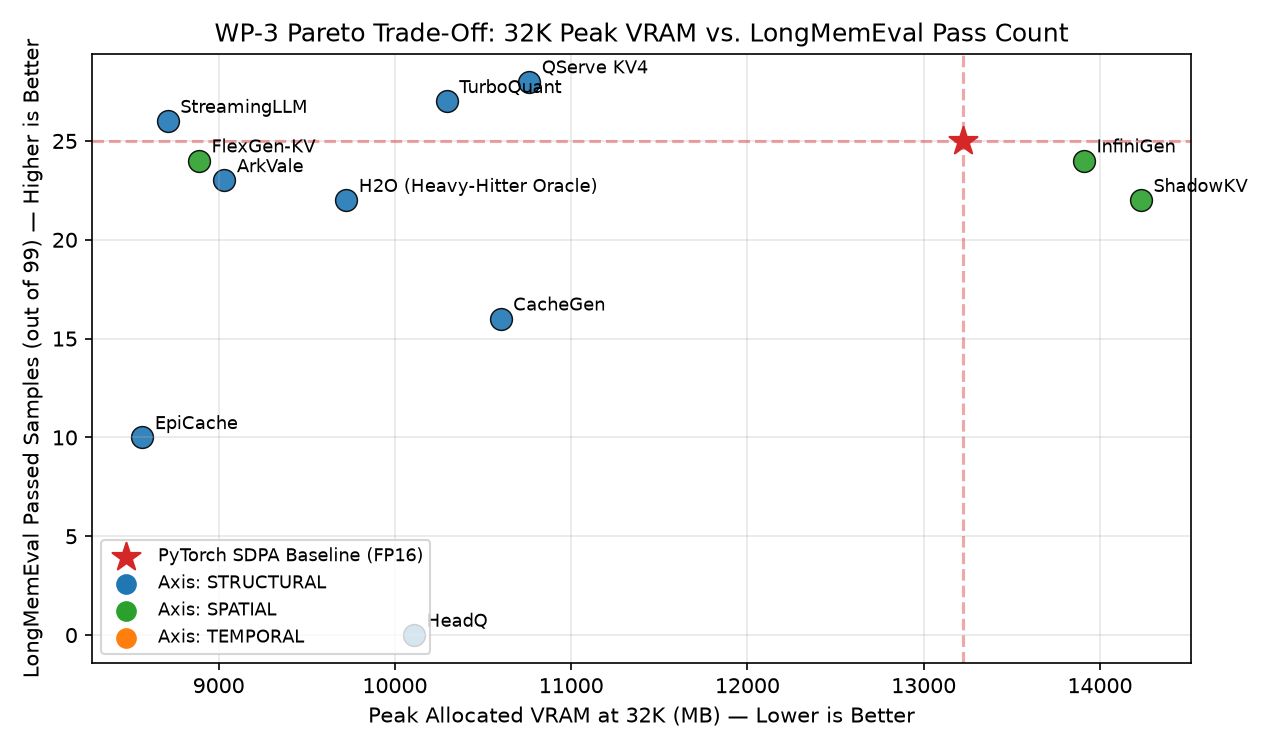
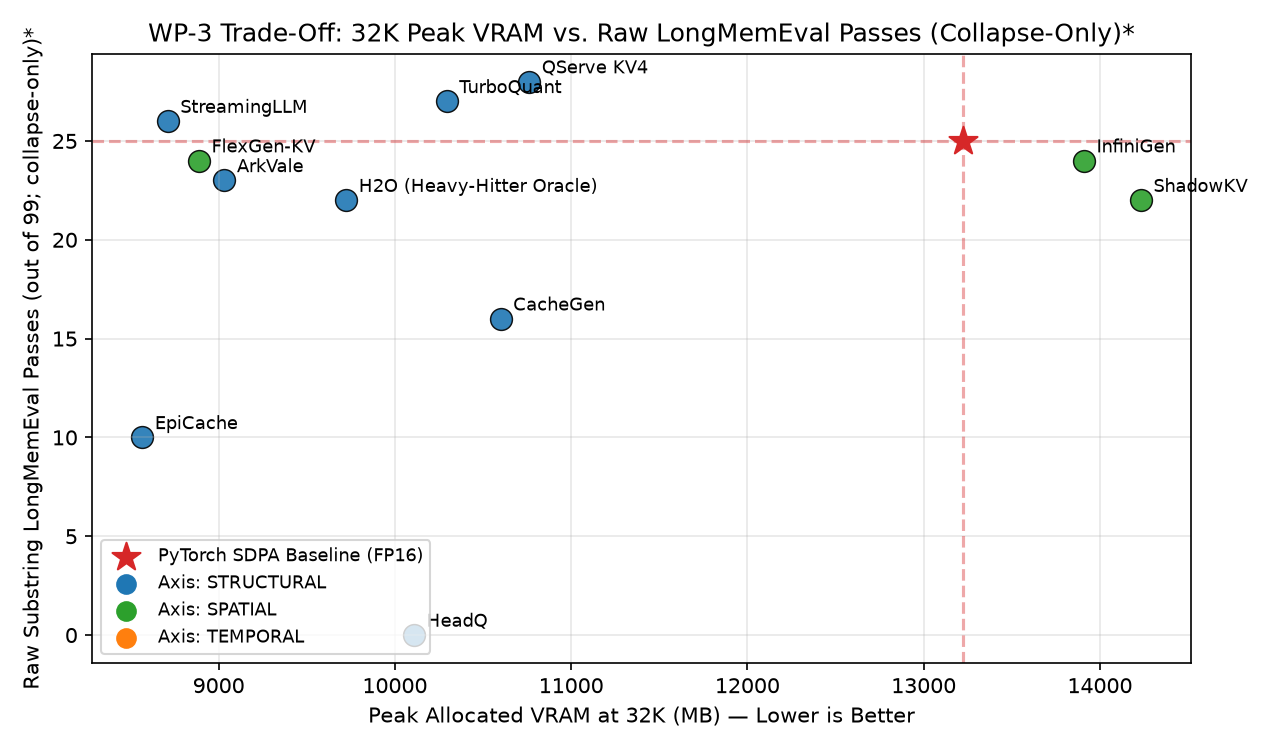
docs(wp3): add LongMemEval methodology caveat and anchor WP-4 takeaways on NIAH/KL [WP3-12]

Changed region(s): [[0.0, 0.0307, 0.0306, 0.92], [0.1224, 0.0307, 0.8871, 0.0613]]

diff --git a/scripts/generate_wp3_report.py b/scripts/generate_wp3_report.py
@@ -562,20 +562,16 @@ def build_diagnostic_narrative(
         tot = sum(r["extra"].get("diag_total_inspected", 0) for r in lm_res)
         regs = sum(r["extra"].get("diag_quality_regression_count", 0) for r in lm_res)
         ret = float(np.mean([r["extra"].get("diag_mean_overall_retention_ratio", 0.0) for r in lm_res]))
-        if passes >= b_lm_pass:
-            pros.append(
-                f"Matches or exceeds baseline LongMemEval pass count (**{passes}/{tot}** vs. {b_lm_pass}/{b_lm_tot} baseline) "
-                f"with **{regs}** compression-induced quality regressions."
-            )
-        else:
+        if passes < b_lm_pass * 0.7:
             cons.append(
-                f"Trails baseline LongMemEval pass count (**{passes}/{tot}** vs. {b_lm_pass}/{b_lm_tot} baseline) "
-                f"with **{regs}** quality regressions (mean KV retention ratio = **{ret:.2f}**)."
+                f"Severe LongMemEval collapse (**{passes}/{tot}** vs. {b_lm_pass}/{b_lm_tot} baseline; "
+                f"**{regs}** quality regressions, mean KV retention ratio = **{ret:.2f}**)."
             )
         reasons.append(
-            f"On LongMemEval ({tot} inspected samples across 512–16,384 tokens), {tech['name']} scores **{passes}/{tot}** "
-            f"with **{regs}** quality regressions relative to the uncompressed baseline ({b_lm_pass}/{b_lm_tot}) and "
-            f"a mean token retention ratio of **{ret:.2f}**."
+            f"On WP-3 LongMemEval ({tot} raw substring evaluations across 512–16,384 tokens), {tech['name']} records **{passes}/{tot}** "
+            f"(**{regs}** regressions vs. {b_lm_pass}/{b_lm_tot} baseline; mean retention ratio = **{ret:.2f}**). "
+            "*Note: WP-3 LongMemEval scores are retained only for catastrophic-collapse detection due to substring-grading, "
+            "32-token truncation, and raw-prompt artifacts; use 2D NIAH and KL divergence for fidelity ranking.*"
         )
 
     return "\n\n".join(reasons), pros, cons
@@ -809,9 +805,9 @@ def plot_overview_figures(summaries: list[dict[str, Any]], base_hw: list[dict], 
             color="#666666",
             bbox={"boxstyle": "round,pad=0.3", "facecolor": "#f8f9fa", "edgecolor": "#cccccc"},
         )
-    ax.set_title("WP-3 Pareto Trade-Off: 32K Peak VRAM vs. LongMemEval Pass Count")
+    ax.set_title("WP-3 Trade-Off: 32K Peak VRAM vs. Raw LongMemEval Passes (Collapse-Only)*")
     ax.set_xlabel("Peak Allocated VRAM at 32K (MB) — Lower is Better")
-    ax.set_ylabel("LongMemEval Passed Samples (out of 99) — Higher is Better")
+    ax.set_ylabel("Raw Substring LongMemEval Passes (out of 99; collapse-only)*")
     ax.grid(True, alpha=0.3)
     ax.legend(fontsize=8.5, loc="lower left")
     fig.tight_layout()
@@ -867,10 +863,10 @@ def format_dynamic_spotlight(s: dict[str, Any], tech: dict[str, Any], b32: dict[
             caveat_parts.append(f"NIAH drops to **{s['niah_2k']:.0f}% @2K / {s['niah_4k']:.0f}% @4K**")
 
     if s["lm_pass"] is not None and s["lm_tot"] is not None:
-        if s["lm_pass"] >= b_pass:
-            upside_parts.append(f"**{s['lm_pass']}/{s['lm_tot']} LongMemEval passes** ({s['lm_reg']} regressions)")
-        else:
-            caveat_parts.append(f"LongMemEval **{s['lm_pass']}/{s['lm_tot']}** ({s['lm_reg']} regressions vs. {b_pass} baseline)")
+        if s["lm_pass"] < b_pass * 0.7:
+            caveat_parts.append(
+                f"LongMemEval collapse (**{s['lm_pass']}/{s['lm_tot']}** vs. {b_pass} baseline; {s['lm_reg']} regressions)"
+            )
 
     if s["lm_kl"] is not None and s["lm_kl"] < 6.0:
         upside_parts.append(f"low LongMemEval KL (**{s['lm_kl']:.2f}**)")
@@ -896,6 +892,15 @@ def write_executive_report(summaries: list[dict[str, Any]], base_hw: list[dict],
         "Note on theoretical vs. empirical VRAM: because unmodified FP16 model weights and runtime buffers occupy ~7.5 GiB fixed VRAM, "
         "a 4× KV-cache reduction translates to ~18–35% total process VRAM savings at 32K context. "
         "Fine-grained tables, per-capability breakdowns, and `matplotlib` figures live in [`docs/wp3_profiles/`](wp3_profiles/).",
+        "",
+        "> [!NOTE]",
+        "> **LongMemEval Methodology Caveat (WP-3):** Raw `LongMem Pass` counts below (`X/99`) reflect the WP-3 substring-graded, "
+        "raw-prompt (non-chat-templated), `max_tokens=32`, 6-tier overlapping harness. Post-hoc audit confirmed that small apparent leads "
+        "over Baseline (`25/99`) at 8K (`QServe KV4 28/99`, `TurboQuant 27/99`, `StreamingLLM 26/99`) stem from substring false positives/negatives, "
+        "refusal-boundary flips on 7 deciding questions, and front-truncation of long contexts. Accordingly, WP-3 LongMemEval counts are "
+        "interpreted **strictly for catastrophic-collapse detection** (`HeadQ 0/99`, `EpiCache 10/99`, `CacheGen 16/99`), while structural "
+        "fidelity ranking for WP-4 is anchored on **2D NIAH exact-match retrieval** and **PG-19 / LongMem KL divergence**. "
+        "A dedicated harness overhaul (single-pass native length at 32K, chat template, `max_tokens=128`, decoupled offline grading) is tracked as a follow-up.",
         "",
         "---",
         "",
@@ -942,7 +947,11 @@ def write_executive_report(summaries: list[dict[str, Any]], base_hw: list[dict],
     completed_hw = [s for s in summaries if s["vram_32k"] is not None]
     min_vram = min(completed_hw, key=lambda x: x["vram_32k"])
     fastest_tpot = min(completed_hw, key=lambda x: x["tpot_32k"])
-    best_lm = max([s for s in summaries if s["lm_pass"] is not None], key=lambda x: x["lm_pass"])
+    niah_perfect_struct = [
+        s for s in completed_hw
+        if s["primary_axis"] == "STRUCTURAL" and s["niah_2k"] == 100.0 and s["niah_4k"] == 100.0
+    ]
+    best_struct = min(niah_perfect_struct, key=lambda x: x["tpot_32k"]) if niah_perfect_struct else completed_hw[0]
 
     lines.extend([
         "---",
@@ -960,9 +969,10 @@ def write_executive_report(summaries: list[dict[str, Any]], base_hw: list[dict],
         f"1. **Lowest Memory & Fastest Decode Come from Structural Eviction, at the Cost of NIAH Recall:** "
         f"`{min_vram['name']}` achieves the lowest 32K VRAM (**{min_vram['vram_32k']:.0f} MB**) and `{fastest_tpot['name']}` "
         f"achieves the fastest 32K decode (**{fastest_tpot['tpot_32k']:.1f} ms/tok**), but both lose non-local needles at 4K.",
-        f"2. **4-Bit KV Quantization Preserves Full-Context Accuracy:** "
-        f"`{best_lm['name']}` leads LongMemEval (**{best_lm['lm_pass']}/{best_lm['lm_tot']}**, {best_lm['lm_reg']} regressions) "
-        f"with **100% NIAH**, establishing 4-bit group quantization as the safest *Structural* baseline for WP-4.",
+        f"2. **4-Bit KV Quantization Preserves Full-Context Recall Without Catastrophic Overhead:** "
+        f"`{best_struct['name']}` preserves **100% NIAH** exact-match retrieval (2K & 4K) with **{best_struct['vram_32k']:.0f} MB** 32K VRAM "
+        f"and **{best_struct['tpot_32k']:.1f} ms/tok** TPOT (fastest among 100%-NIAH structural methods), establishing 4-bit group quantization "
+        f"as the safest *Structural* baseline for WP-4.",
         "3. **Spatial Offloading Must Control PCIe & Auxiliary Buffer Overhead:** "
         "Offloading techniques (`FlexGen-KV`, `ArkVale`, `ShadowKV`, `InfiniGen`) preserve 100% NIAH at 2K/4K, "
         "but high PCIe transfer volume or auxiliary prefetch buffers can erode VRAM or TPOT gains if left uncoordinated.",

diff --git a/docs/WP3_CANDIDATE_EXPLORATION_REPORT.md b/docs/WP3_CANDIDATE_EXPLORATION_REPORT.md
@@ -4,6 +4,9 @@
 
 This executive report synthesizes empirical results across all 11 reproduced KV-cache optimization candidates. Note on theoretical vs. empirical VRAM: because unmodified FP16 model weights and runtime buffers occupy ~7.5 GiB fixed VRAM, a 4× KV-cache reduction translates to ~18–35% total process VRAM savings at 32K context. Fine-grained tables, per-capability breakdowns, and `matplotlib` figures live in [`docs/wp3_profiles/`](wp3_profiles/).
 
+> [!NOTE]
+> **LongMemEval Methodology Caveat (WP-3):** Raw `LongMem Pass` counts below (`X/99`) reflect the WP-3 substring-graded, raw-prompt (non-chat-templated), `max_tokens=32`, 6-tier overlapping harness. Post-hoc audit confirmed that small apparent leads over Baseline (`25/99`) at 8K (`QServe KV4 28/99`, `TurboQuant 27/99`, `StreamingLLM 26/99`) stem from substring false positives/negatives, refusal-boundary flips on 7 deciding questions, and front-truncation of long contexts. Accordingly, WP-3 LongMemEval counts are interpreted **strictly for catastrophic-collapse detection** (`HeadQ 0/99`, `EpiCache 10/99`, `CacheGen 16/99`), while structural fidelity ranking for WP-4 is anchored on **2D NIAH exact-match retrieval** and **PG-19 / LongMem KL divergence**. A dedicated harness overhaul (single-pass native length at 32K, chat template, `max_tokens=128`, decoupled offline grading) is tracked as a follow-up.
+
 ---
 
 ## 1. Cross-Technique Summary Matrix
@@ -29,58 +32,58 @@ This executive report synthesizes empirical results across all 11 reproduced KV-
 
 ### WP3-1: StreamingLLM (`STRUCTURAL`) — [Full Profile](wp3_profiles/streamingllm.md)
 - **Mechanism:** StreamingLLM retains a small set of initial 'attention sink' tokens alongside a fixed-size rolling sliding window of the most recent tokens. When the sequence exceeds the combined budget, intermediate tokens between the sinks and the local window are evicted in FIFO order, bounding KV-cache memory to O(1) regardless of prompt length.
-- **Prominent Upside:** **34.1% lower 32K VRAM** (8712 MB); **20.9 ms/tok** decode TPOT (1.39× baseline speed); **26/99 LongMemEval passes** (3 regressions); low LongMemEval KL (**5.62**)
+- **Prominent Upside:** **34.1% lower 32K VRAM** (8712 MB); **20.9 ms/tok** decode TPOT (1.39× baseline speed); low LongMemEval KL (**5.62**)
 - **Primary Trade-Off:** NIAH drops to **100% @2K / 40% @4K**
 
 ### WP3-2: H2O (Heavy-Hitter Oracle) (`STRUCTURAL`) — [Full Profile](wp3_profiles/h2o.md)
 - **Mechanism:** H2O partitions the fixed KV budget between a recent local window and a 'heavy-hitter' pool selected by cumulative attention scores. At each step, tokens with the lowest accumulated attention (pooled across GQA heads) are evicted to keep high-impact context tokens in GPU memory.
 - **Prominent Upside:** **26.5% lower 32K VRAM** (9725 MB); low LongMemEval KL (**4.01**)
-- **Primary Trade-Off:** 32K decode TPOT is **1.57× slower** (45.9 ms/tok); NIAH drops to **100% @2K / 20% @4K**; LongMemEval **22/99** (4 regressions vs. 25 baseline)
+- **Primary Trade-Off:** 32K decode TPOT is **1.57× slower** (45.9 ms/tok); NIAH drops to **100% @2K / 20% @4K**
 
 ### WP3-3: TurboQuant (`STRUCTURAL`) — [Full Profile](wp3_profiles/turboquant.md)
 - **Mechanism:** TurboQuant applies asymmetric low-bit quantization to Keys and Values, using a Walsh-Hadamard rotation to smooth outlier channels before quantization and a Quantized Johnson-Lindenstrauss (QJL) sketch on Values to preserve inner-product fidelity.
-- **Prominent Upside:** **22.2% lower 32K VRAM** (10294 MB); **100% NIAH** exact-match retrieval (2K & 4K); **27/99 LongMemEval passes** (5 regressions)
+- **Prominent Upside:** **22.2% lower 32K VRAM** (10294 MB); **100% NIAH** exact-match retrieval (2K & 4K)
 - **Primary Trade-Off:** 32K decode TPOT is **29.62× slower** (864.1 ms/tok)
 
 ### WP3-4: HeadQ (`STRUCTURAL`) — [Full Profile](wp3_profiles/headq.md)
 - **Mechanism:** HeadQ compresses Keys aggressively down to 2 bits while storing Values at 4 bits, augmenting the quantized Keys with a low-rank PCA residual side-code to recover high-variance attention directions.
 - **Prominent Upside:** **23.6% lower 32K VRAM** (10109 MB)
-- **Primary Trade-Off:** 32K decode TPOT is **2.77× slower** (80.9 ms/tok); NIAH drops to **0% @2K / 0% @4K**; LongMemEval **0/99** (25 regressions vs. 25 baseline); high PG-19 KL (**13.52**)
+- **Primary Trade-Off:** 32K decode TPOT is **2.77× slower** (80.9 ms/tok); NIAH drops to **0% @2K / 0% @4K**; LongMemEval collapse (**0/99** vs. 25 baseline; 25 regressions); high PG-19 KL (**13.52**)
 
 ### WP3-5: QServe KV4 (`STRUCTURAL`) — [Full Profile](wp3_profiles/qserve_kv4.md)
 - **Mechanism:** QServe KV4 performs group-wise 4-bit symmetric/asymmetric KV-cache quantization paired with SmoothAttention, which migrates channel-wise outlier magnitudes from Keys into the Query projection scaling before quantizing.
-- **Prominent Upside:** **18.6% lower 32K VRAM** (10763 MB); **100% NIAH** exact-match retrieval (2K & 4K); **28/99 LongMemEval passes** (2 regressions)
+- **Prominent Upside:** **18.6% lower 32K VRAM** (10763 MB); **100% NIAH** exact-match retrieval (2K & 4K)
 - **Primary Trade-Off:** 32K decode TPOT is **2.05× slower** (59.9 ms/tok)
 
 ### WP3-6: FlexGen-KV (`SPATIAL`) — [Full Profile](wp3_profiles/flexgen_kv.md)
 - **Mechanism:** FlexGen-KV tiers the KV cache across GPU VRAM and host CPU RAM, keeping a bounded active budget on the GPU while offloading older KV blocks to CPU memory with group-wise quantization to reduce host-device PCIe transfer volume.
 - **Prominent Upside:** **32.8% lower 32K VRAM** (8889 MB); **100% NIAH** exact-match retrieval (2K & 4K)
-- **Primary Trade-Off:** 32K decode TPOT is **7.87× slower** (229.6 ms/tok); LongMemEval **24/99** (6 regressions vs. 25 baseline)
+- **Primary Trade-Off:** 32K decode TPOT is **7.87× slower** (229.6 ms/tok)
 
 ### WP3-7: ShadowKV (`SPATIAL`) — [Full Profile](wp3_profiles/shadowkv.md)
 - **Mechanism:** ShadowKV keeps low-rank SVD-compressed Key representations and sparse outlier channels on the GPU for fast chunk-level relevance scoring, while offloading full-precision Values to CPU RAM and fetching only the top-k relevant chunks on demand during decode.
 - **Prominent Upside:** **100% NIAH** exact-match retrieval (2K & 4K); low LongMemEval KL (**3.85**)
-- **Primary Trade-Off:** **+7.6% higher 32K VRAM** (14233 MB vs. 13225 MB baseline); 32K decode TPOT is **2.92× slower** (85.3 ms/tok); LongMemEval **22/99** (3 regressions vs. 25 baseline)
+- **Primary Trade-Off:** **+7.6% higher 32K VRAM** (14233 MB vs. 13225 MB baseline); 32K decode TPOT is **2.92× slower** (85.3 ms/tok)
 
 ### WP3-8: CacheGen (`STRUCTURAL`) — [Full Profile](wp3_profiles/cachegen.md)
 - **Mechanism:** CacheGen encodes KV tensors using anchor-delta compression (storing periodic anchor tokens at higher precision and encoding intermediate tokens as deltas) combined with layer-tiered bit allocation across shallow, middle, and deep transformer layers.
 - **Prominent Upside:** **19.8% lower 32K VRAM** (10600 MB)
-- **Primary Trade-Off:** 32K decode TPOT is **2.84× slower** (82.9 ms/tok); NIAH drops to **40% @2K / 80% @4K**; LongMemEval **16/99** (11 regressions vs. 25 baseline); high PG-19 KL (**12.87**)
+- **Primary Trade-Off:** 32K decode TPOT is **2.84× slower** (82.9 ms/tok); NIAH drops to **40% @2K / 80% @4K**; LongMemEval collapse (**16/99** vs. 25 baseline; 11 regressions); high PG-19 KL (**12.87**)
 
 ### WP3-9: InfiniGen (`SPATIAL`) — [Full Profile](wp3_profiles/infinigen.md)
 - **Mechanism:** InfiniGen speculatively prefetches important KV blocks from CPU memory one layer ahead by using low-rank key proxies and threshold-based importance prediction to overlap host-to-device transfers with layer computation.
 - **Prominent Upside:** **100% NIAH** exact-match retrieval (2K & 4K)
-- **Primary Trade-Off:** **+5.2% higher 32K VRAM** (13910 MB vs. 13225 MB baseline); 32K decode TPOT is **7.53× slower** (219.7 ms/tok); LongMemEval **24/99** (4 regressions vs. 25 baseline)
+- **Primary Trade-Off:** **+5.2% higher 32K VRAM** (13910 MB vs. 13225 MB baseline); 32K decode TPOT is **7.53× slower** (219.7 ms/tok)
 
 ### WP3-10: ArkVale (`STRUCTURAL`) — [Full Profile](wp3_profiles/arkvale.md)
 - **Mechanism:** ArkVale organizes the KV cache into fixed-size pages offloaded to CPU RAM and maintains Axis-Aligned Bounding Box (AABB) geometric digests on the GPU to recall and page-in only the relevant KV pages per query.
 - **Prominent Upside:** **31.7% lower 32K VRAM** (9033 MB); **100% NIAH** exact-match retrieval (2K & 4K)
-- **Primary Trade-Off:** 32K decode TPOT is **3.53× slower** (102.9 ms/tok); LongMemEval **23/99** (4 regressions vs. 25 baseline)
+- **Primary Trade-Off:** 32K decode TPOT is **3.53× slower** (102.9 ms/tok)
 
 ### WP3-11: EpiCache (`STRUCTURAL`) — [Full Profile](wp3_profiles/epicache.md)
 - **Mechanism:** EpiCache clusters conversational/context history into episodic segments and allocates per-layer KV budgets according to layer sensitivity, pruning low-sensitivity tokens within each episode to fit a compact GPU budget.
 - **Prominent Upside:** **35.2% lower 32K VRAM** (8567 MB); **30.6 ms/tok** decode TPOT (0.95× baseline speed)
-- **Primary Trade-Off:** NIAH drops to **0% @2K / 0% @4K**; LongMemEval **10/99** (17 regressions vs. 25 baseline)
+- **Primary Trade-Off:** NIAH drops to **0% @2K / 0% @4K**; LongMemEval collapse (**10/99** vs. 25 baseline; 17 regressions)
 
 ---
 
@@ -95,5 +98,5 @@ This executive report synthesizes empirical results across all 11 reproduced KV-
 ## 4. Key Takeaways for WP-4 (3-Axis Co-Optimization)
 
 1. **Lowest Memory & Fastest Decode Come from Structural Eviction, at the Cost of NIAH Recall:** `EpiCache` achieves the lowest 32K VRAM (**8567 MB**) and `StreamingLLM` achieves the fastest 32K decode (**20.9 ms/tok**), but both lose non-local needles at 4K.
-2. **4-Bit KV Quantization Preserves Full-Context Accuracy:** `QServe KV4` leads LongMemEval (**28/99**, 2 regressions) with **100% NIAH**, establishing 4-bit group quantization as the safest *Structural* baseline for WP-4.
+2. **4-Bit KV Quantization Preserves Full-Context Recall Without Catastrophic Overhead:** `QServe KV4` preserves **100% NIAH** exact-match retrieval (2K & 4K) with **10763 MB** 32K VRAM and **59.9 ms/tok** TPOT (fastest among 100%-NIAH structural methods), establishing 4-bit group quantization as the safest *Structural* baseline for WP-4.
 3. **Spatial Offloading Must Control PCIe & Auxiliary Buffer Overhead:** Offloading techniques (`FlexGen-KV`, `ArkVale`, `ShadowKV`, `InfiniGen`) preserve 100% NIAH at 2K/4K, but high PCIe transfer volume or auxiliary prefetch buffers can erode VRAM or TPOT gains if left uncoordinated.

diff --git a/docs/wp3_profiles/epicache.md b/docs/wp3_profiles/epicache.md
@@ -108,7 +108,7 @@ Tested with num_episodes=4, episode_budget_tokens=1,024, and layer_sensitivity_a
 
 On the 2D NIAH diagnostic sweep, exact-match retrieval across depths 0.0–0.9 is **2048: 0%, 4096: 0%**.
 
-On LongMemEval (99 inspected samples across 512–16,384 tokens), EpiCache scores **10/99** with **17** quality regressions relative to the uncompressed baseline (25/99) and a mean token retention ratio of **0.52**.
+On WP-3 LongMemEval (99 raw substring evaluations across 512–16,384 tokens), EpiCache records **10/99** (**17** regressions vs. 25/99 baseline; mean retention ratio = **0.52**). *Note: WP-3 LongMemEval scores are retained only for catastrophic-collapse detection due to substring-grading, 32-token truncation, and raw-prompt artifacts; use 2D NIAH and KL divergence for fidelity ranking.*
 
 ### Pros
 
@@ -120,4 +120,4 @@ On LongMemEval (99 inspected samples across 512–16,384 tokens), EpiCache score
 - High host-device transfer volume at 32K (**442264 B/tok**, Host RSS Δ = **2846 MB**).
 - Elevated PG-19 logit divergence (mean KL = **9.86**, Top-1 = **22.5%**).
 - NIAH retrieval drops to **0%** at 4,096 tokens (failing at depths `[0.0, 0.1, 0.2, 0.3, 0.4, 0.5, 0.6, 0.7, 0.8, 0.9]`), confirming loss of early/non-local needle tokens.
-- Trails baseline LongMemEval pass count (**10/99** vs. 25/99 baseline) with **17** quality regressions (mean KV retention ratio = **0.52**).
+- Severe LongMemEval collapse (**10/99** vs. 25/99 baseline; **17** quality regressions, mean KV retention ratio = **0.52**).

diff --git a/docs/wp3_profiles/headq.md b/docs/wp3_profiles/headq.md
@@ -108,7 +108,7 @@ Tested with key_bits=2, val_bits=4, pca_rank=4, and sidecode_bits=4. At 2-bit ke
 
 On the 2D NIAH diagnostic sweep, exact-match retrieval across depths 0.0–0.9 is **2048: 0%, 4096: 0%**.
 
-On LongMemEval (99 inspected samples across 512–16,384 tokens), HeadQ scores **0/99** with **25** quality regressions relative to the uncompressed baseline (25/99) and a mean token retention ratio of **1.00**.
+On WP-3 LongMemEval (99 raw substring evaluations across 512–16,384 tokens), HeadQ records **0/99** (**25** regressions vs. 25/99 baseline; mean retention ratio = **1.00**). *Note: WP-3 LongMemEval scores are retained only for catastrophic-collapse detection due to substring-grading, 32-token truncation, and raw-prompt artifacts; use 2D NIAH and KL divergence for fidelity ranking.*
 
 ### Pros
 
@@ -119,4 +119,4 @@ On LongMemEval (99 inspected samples across 512–16,384 tokens), HeadQ scores *
 - Decode latency at 32K is **2.77x slower** than baseline (**80.9 ms/tok** vs. 29.2 ms/tok).
 - Elevated PG-19 logit divergence (mean KL = **13.52**, Top-1 = **2.0%**).
 - NIAH retrieval drops to **0%** at 4,096 tokens (failing at depths `[0.0, 0.1, 0.2, 0.3, 0.4, 0.5, 0.6, 0.7, 0.8, 0.9]`), confirming loss of early/non-local needle tokens.
-- Trails baseline LongMemEval pass count (**0/99** vs. 25/99 baseline) with **25** quality regressions (mean KV retention ratio = **1.00**).
+- Severe LongMemEval collapse (**0/99** vs. 25/99 baseline; **25** quality regressions, mean KV retention ratio = **1.00**).

diff --git a/docs/wp3_profiles/cachegen.md b/docs/wp3_profiles/cachegen.md
@@ -108,7 +108,7 @@ Tested with anchor_group_size=10, shallow_bits=8, mid_bits=4, and deep_bits=2. A
 
 On the 2D NIAH diagnostic sweep, exact-match retrieval across depths 0.0–0.9 is **2048: 40%, 4096: 80%**.
 
-On LongMemEval (99 inspected samples across 512–16,384 tokens), CacheGen scores **16/99** with **11** quality regressions relative to the uncompressed baseline (25/99) and a mean token retention ratio of **1.00**.
+On WP-3 LongMemEval (99 raw substring evaluations across 512–16,384 tokens), CacheGen records **16/99** (**11** regressions vs. 25/99 baseline; mean retention ratio = **1.00**). *Note: WP-3 LongMemEval scores are retained only for catastrophic-collapse detection due to substring-grading, 32-token truncation, and raw-prompt artifacts; use 2D NIAH and KL divergence for fidelity ranking.*
 
 ### Pros
 
@@ -120,4 +120,4 @@ On LongMemEval (99 inspected samples across 512–16,384 tokens), CacheGen score
 - High host-device transfer volume at 32K (**935016151 B/tok**, Host RSS Δ = **4536 MB**).
 - Elevated PG-19 logit divergence (mean KL = **12.87**, Top-1 = **6.2%**).
 - NIAH retrieval drops to **80%** at 4,096 tokens (failing at depths `[0.2, 0.9]`), confirming loss of early/non-local needle tokens.
-- Trails baseline LongMemEval pass count (**16/99** vs. 25/99 baseline) with **11** quality regressions (mean KV retention ratio = **1.00**).
+- Severe LongMemEval collapse (**16/99** vs. 25/99 baseline; **11** quality regressions, mean KV retention ratio = **1.00**).

diff --git a/docs/wp3_profiles/h2o.md b/docs/wp3_profiles/h2o.md
@@ -108,7 +108,7 @@ Tested with 1,024 heavy-hitter tokens + 1,024 recent window tokens (2,048 total 
 
 On the 2D NIAH diagnostic sweep, exact-match retrieval across depths 0.0–0.9 is **2048: 100%, 4096: 20%**.
 
-On LongMemEval (99 inspected samples across 512–16,384 tokens), H2O (Heavy-Hitter Oracle) scores **22/99** with **4** quality regressions relative to the uncompressed baseline (25/99) and a mean token retention ratio of **0.67**.
+On WP-3 LongMemEval (99 raw substring evaluations across 512–16,384 tokens), H2O (Heavy-Hitter Oracle) records **22/99** (**4** regressions vs. 25/99 baseline; mean retention ratio = **0.67**). *Note: WP-3 LongMemEval scores are retained only for catastrophic-collapse detection due to substring-grading, 32-token truncation, and raw-prompt artifacts; use 2D NIAH and KL divergence for fidelity ranking.*
 
 ### Pros
 
@@ -120,4 +120,3 @@ On LongMemEval (99 inspected samples across 512–16,384 tokens), H2O (Heavy-Hit
 - High host-device transfer volume at 32K (**2005976 B/tok**, Host RSS Δ = **6874 MB**).
 - Elevated PG-19 logit divergence (mean KL = **6.55**, Top-1 = **52.5%**).
 - NIAH retrieval drops to **20%** at 4,096 tokens (failing at depths `[0.0, 0.1, 0.2, 0.3, 0.4, 0.5, 0.6, 0.7]`), confirming loss of early/non-local needle tokens.
-- Trails baseline LongMemEval pass count (**22/99** vs. 25/99 baseline) with **4** quality regressions (mean KV retention ratio = **0.67**).

diff --git a/docs/wp3_profiles/shadowkv.md b/docs/wp3_profiles/shadowkv.md
@@ -108,7 +108,7 @@ Tested with svd_rank=160, chunk_size=8, topk_chunks=256, and outlier_ratio=0.003
 
 On the 2D NIAH diagnostic sweep, exact-match retrieval across depths 0.0–0.9 is **2048: 100%, 4096: 100%**.
 
-On LongMemEval (99 inspected samples across 512–16,384 tokens), ShadowKV scores **22/99** with **3** quality regressions relative to the uncompressed baseline (25/99) and a mean token retention ratio of **1.00**.
+On WP-3 LongMemEval (99 raw substring evaluations across 512–16,384 tokens), ShadowKV records **22/99** (**3** regressions vs. 25/99 baseline; mean retention ratio = **1.00**). *Note: WP-3 LongMemEval scores are retained only for catastrophic-collapse detection due to substring-grading, 32-token truncation, and raw-prompt artifacts; use 2D NIAH and KL divergence for fidelity ranking.*
 
 ### Pros
 
@@ -120,4 +120,3 @@ On LongMemEval (99 inspected samples across 512–16,384 tokens), ShadowKV score
 - Increases peak allocated VRAM at 32K by **+7.6%** (14233 MB vs. 13225 MB baseline) due to auxiliary metadata/prefetch buffers.
 - Decode latency at 32K is **2.92x slower** than baseline (**85.3 ms/tok** vs. 29.2 ms/tok).
 - High host-device transfer volume at 32K (**67241955 B/tok**, Host RSS Δ = **5325 MB**).
-- Trails baseline LongMemEval pass count (**22/99** vs. 25/99 baseline) with **3** quality regressions (mean KV retention ratio = **1.00**).

diff --git a/docs/wp3_profiles/flexgen_kv.md b/docs/wp3_profiles/flexgen_kv.md
@@ -108,7 +108,7 @@ Tested with gpu_cache_tokens=1,024, cpu_cache_tokens=32,768, group_size=64, and 
 
 On the 2D NIAH diagnostic sweep, exact-match retrieval across depths 0.0–0.9 is **2048: 100%, 4096: 100%**.
 
-On LongMemEval (99 inspected samples across 512–16,384 tokens), FlexGen-KV scores **24/99** with **6** quality regressions relative to the uncompressed baseline (25/99) and a mean token retention ratio of **1.00**.
+On WP-3 LongMemEval (99 raw substring evaluations across 512–16,384 tokens), FlexGen-KV records **24/99** (**6** regressions vs. 25/99 baseline; mean retention ratio = **1.00**). *Note: WP-3 LongMemEval scores are retained only for catastrophic-collapse detection due to substring-grading, 32-token truncation, and raw-prompt artifacts; use 2D NIAH and KL divergence for fidelity ranking.*
 
 ### Pros
 
@@ -120,4 +120,3 @@ On LongMemEval (99 inspected samples across 512–16,384 tokens), FlexGen-KV sco
 - Decode latency at 32K is **7.87x slower** than baseline (**229.6 ms/tok** vs. 29.2 ms/tok).
 - High host-device transfer volume at 32K (**1646964418 B/tok**, Host RSS Δ = **6565 MB**).
 - Elevated PG-19 logit divergence (mean KL = **10.80**, Top-1 = **21.7%**).
-- Trails baseline LongMemEval pass count (**24/99** vs. 25/99 baseline) with **6** quality regressions (mean KV retention ratio = **1.00**).

diff --git a/docs/wp3_profiles/infinigen.md b/docs/wp3_profiles/infinigen.md
@@ -108,7 +108,7 @@ Tested with k_proxy_ratio=0.3, alpha_threshold=4.0, and max_budget_ratio=0.35. M
 
 On the 2D NIAH diagnostic sweep, exact-match retrieval across depths 0.0–0.9 is **2048: 100%, 4096: 100%**.
 
-On LongMemEval (99 inspected samples across 512–16,384 tokens), InfiniGen scores **24/99** with **4** quality regressions relative to the uncompressed baseline (25/99) and a mean token retention ratio of **1.00**.
+On WP-3 LongMemEval (99 raw substring evaluations across 512–16,384 tokens), InfiniGen records **24/99** (**4** regressions vs. 25/99 baseline; mean retention ratio = **1.00**). *Note: WP-3 LongMemEval scores are retained only for catastrophic-collapse detection due to substring-grading, 32-token truncation, and raw-prompt artifacts; use 2D NIAH and KL divergence for fidelity ranking.*
 
 ### Pros
 
@@ -120,4 +120,3 @@ On LongMemEval (99 inspected samples across 512–16,384 tokens), InfiniGen scor
 - Decode latency at 32K is **7.53x slower** than baseline (**219.7 ms/tok** vs. 29.2 ms/tok).
 - High host-device transfer volume at 32K (**1829885205 B/tok**, Host RSS Δ = **20491 MB**).
 - Elevated PG-19 logit divergence (mean KL = **11.64**, Top-1 = **15.2%**).
-- Trails baseline LongMemEval pass count (**24/99** vs. 25/99 baseline) with **4** quality regressions (mean KV retention ratio = **1.00**).

diff --git a/docs/wp3_profiles/arkvale.md b/docs/wp3_profiles/arkvale.md
@@ -108,7 +108,7 @@ Tested with page_size=16, active_pages_budget=16, and exempt_early_layers=2. Whi
 
 On the 2D NIAH diagnostic sweep, exact-match retrieval across depths 0.0–0.9 is **2048: 100%, 4096: 100%**.
 
-On LongMemEval (99 inspected samples across 512–16,384 tokens), ArkVale scores **23/99** with **4** quality regressions relative to the uncompressed baseline (25/99) and a mean token retention ratio of **0.20**.
+On WP-3 LongMemEval (99 raw substring evaluations across 512–16,384 tokens), ArkVale records **23/99** (**4** regressions vs. 25/99 baseline; mean retention ratio = **0.20**). *Note: WP-3 LongMemEval scores are retained only for catastrophic-collapse detection due to substring-grading, 32-token truncation, and raw-prompt artifacts; use 2D NIAH and KL divergence for fidelity ranking.*
 
 ### Pros
 
@@ -120,4 +120,3 @@ On LongMemEval (99 inspected samples across 512–16,384 tokens), ArkVale scores
 - Decode latency at 32K is **3.53x slower** than baseline (**102.9 ms/tok** vs. 29.2 ms/tok).
 - High host-device transfer volume at 32K (**1618383854 B/tok**, Host RSS Δ = **16614 MB**).
 - Elevated PG-19 logit divergence (mean KL = **11.42**, Top-1 = **17.6%**).
-- Trails baseline LongMemEval pass count (**23/99** vs. 25/99 baseline) with **4** quality regressions (mean KV retention ratio = **0.20**).

diff --git a/docs/wp3_profiles/qserve_kv4.md b/docs/wp3_profiles/qserve_kv4.md
@@ -108,13 +108,12 @@ Tested with 4-bit Keys and Values, group_size=32, and smooth_attention_alpha=0.5
 
 On the 2D NIAH diagnostic sweep, exact-match retrieval across depths 0.0–0.9 is **2048: 100%, 4096: 100%**.
 
-On LongMemEval (99 inspected samples across 512–16,384 tokens), QServe KV4 scores **28/99** with **2** quality regressions relative to the uncompressed baseline (25/99) and a mean token retention ratio of **1.00**.
+On WP-3 LongMemEval (99 raw substring evaluations across 512–16,384 tokens), QServe KV4 records **28/99** (**2** regressions vs. 25/99 baseline; mean retention ratio = **1.00**). *Note: WP-3 LongMemEval scores are retained only for catastrophic-collapse detection due to substring-grading, 32-token truncation, and raw-prompt artifacts; use 2D NIAH and KL divergence for fidelity ranking.*
 
 ### Pros
 
 - Reduces peak allocated VRAM at 32K by **18.6%** (10763 MB vs. 13225 MB baseline).
 - Achieves **100% NIAH exact-match retrieval** across all depths (0.0–0.9) at both 2,048 and 4,096 context lengths.
-- Matches or exceeds baseline LongMemEval pass count (**28/99** vs. 25/99 baseline) with **2** compression-induced quality regressions.
 
 ### Cons
 

diff --git a/docs/wp3_profiles/turboquant.md b/docs/wp3_profiles/turboquant.md
@@ -108,13 +108,12 @@ Tested at 4-bit Keys and 3-bit Values (qjl_v=True, qjl_k=False, ~3.66x theoretic
 
 On the 2D NIAH diagnostic sweep, exact-match retrieval across depths 0.0–0.9 is **2048: 100%, 4096: 100%**.
 
-On LongMemEval (99 inspected samples across 512–16,384 tokens), TurboQuant scores **27/99** with **5** quality regressions relative to the uncompressed baseline (25/99) and a mean token retention ratio of **1.00**.
+On WP-3 LongMemEval (99 raw substring evaluations across 512–16,384 tokens), TurboQuant records **27/99** (**5** regressions vs. 25/99 baseline; mean retention ratio = **1.00**). *Note: WP-3 LongMemEval scores are retained only for catastrophic-collapse detection due to substring-grading, 32-token truncation, and raw-prompt artifacts; use 2D NIAH and KL divergence for fidelity ranking.*
 
 ### Pros
 
 - Reduces peak allocated VRAM at 32K by **22.2%** (10294 MB vs. 13225 MB baseline).
 - Achieves **100% NIAH exact-match retrieval** across all depths (0.0–0.9) at both 2,048 and 4,096 context lengths.
-- Matches or exceeds baseline LongMemEval pass count (**27/99** vs. 25/99 baseline) with **5** compression-induced quality regressions.
 
 ### Cons
 
